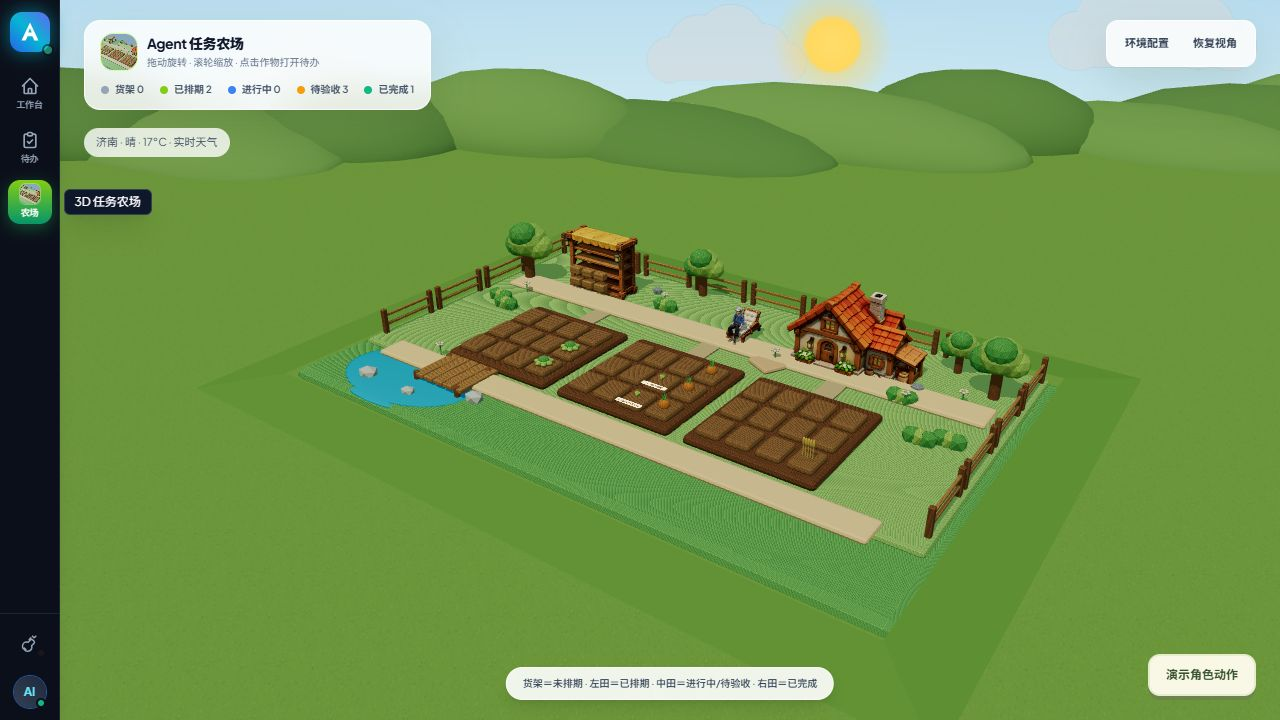
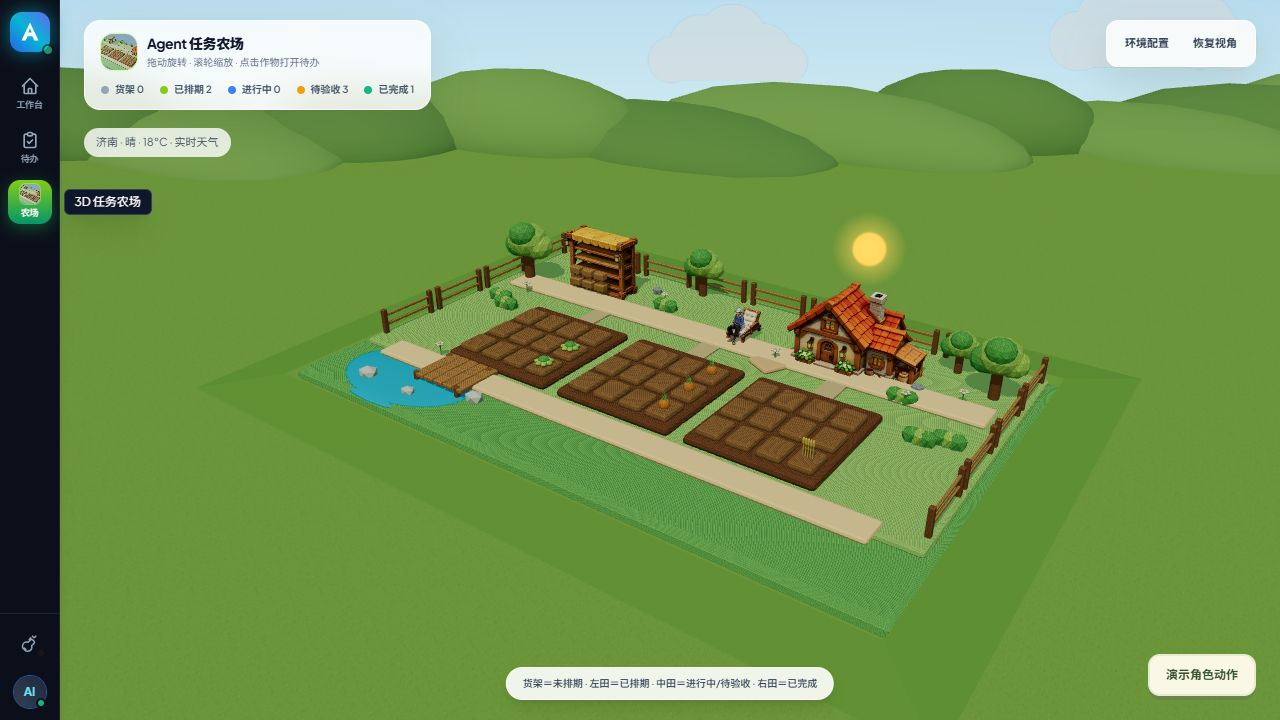
fix: anchor farm sun above the cottage

diff --git a/assets/web/farm-environment.js b/assets/web/farm-environment.js
@@ -56,7 +56,8 @@ export function createFarmEnvironment({scene,camera,sun,hemi,renderer,onWeather}
     hill.scale.set(10+i%4*2,3+i%3,8);root.add(hill);
   }
   const celestialTexture=glowTexture();
-  const solar=new THREE.Sprite(new THREE.SpriteMaterial({map:celestialTexture,transparent:true,depthWrite:false,fog:false,toneMapped:false}));solar.scale.set(11,11,1);root.add(solar);
+  const solar=new THREE.Sprite(new THREE.SpriteMaterial({map:celestialTexture,transparent:true,depthWrite:false,fog:false,toneMapped:false}));solar.scale.set(2.8,2.8,1);root.add(solar);
+  const sunAnchor=new THREE.Vector3(5.6,7.2,-4.8);
   const moon=new THREE.Sprite(new THREE.SpriteMaterial({map:celestialTexture,color:0xc6deff,transparent:true,depthWrite:false,fog:false,toneMapped:false}));moon.scale.set(7,7,1);root.add(moon);
   const porch=new THREE.PointLight(0xffc47a,0,10,2);porch.position.set(5.6,2,-2.7);root.add(porch);
   const stallLamp=new THREE.PointLight(0xffcd90,0,8,2);stallLamp.position.set(-7.5,2,-3.4);root.add(stallLamp);
@@ -103,7 +104,7 @@ export function createFarmEnvironment({scene,camera,sun,hemi,renderer,onWeather}
       precipitation.material.color.set(visual.snow ? 0xffffff : 0xc8def1);
       clouds.forEach((cloud,i)=>{cloud.material.color.set(day>.3 ? visual.rain ? 0x89979f : 0xffffff : 0x627085);cloud.material.opacity=.5+overcast*.4;cloud.visible=i<3+Math.round(overcast*6);});
     }
-    positionInSky(solar,-.6+visual.progress*1.6,.4+Math.sin(visual.progress*Math.PI)*.48,90);
+    solar.position.copy(sunAnchor);
     positionInSky(moon,.65,.85,90);
     stars.position.copy(camera.position);stars.quaternion.copy(camera.quaternion);
     clouds.forEach((cloud,i)=>{const speed=reduced.matches ? 0 : elapsed*(.0008+(snapshot.current?.wind_speed_10m || 5)*.000035);positionInSky(cloud,((i*.7+speed+.3)%2.4)-.9,.8+(i%3)*.06,115+i%3*3);});
@@ -115,5 +116,5 @@ export function createFarmEnvironment({scene,camera,sun,hemi,renderer,onWeather}
     root.traverse(object=>{if(object.geometry)geometries.add(object.geometry);for(const material of (Array.isArray(object.material)?object.material:[object.material]).filter(Boolean)){materials.add(material);if(material.map)textures.add(material.map);}});
     geometries.forEach(item=>item.dispose());materials.forEach(item=>item.dispose());textures.forEach(item=>item.dispose());
   }
-  return {tick,refresh,setWeather,dispose,groundSurfaces:[ground,skirt]};
+  return {tick,refresh,setWeather,dispose,setSunAnchor:position=>sunAnchor.copy(position),groundSurfaces:[ground,skirt]};
 }

diff --git a/assets/web/farm3d.js b/assets/web/farm3d.js
@@ -511,9 +511,12 @@ export function createAgentFarm3D({ container, tooltip, onTaskOpen, onSessionOpe
       loader.loadAsync('/models/chair-clean.glb'),
       loader.loadAsync('/models/stall-clean.glb')
     ]);
-    prepareDecorativeAsset(houseGltf.scene, {
+    const house=prepareDecorativeAsset(houseGltf.scene, {
       name: 'FarmHouse', scale: 5.1, x: 5.6, z: -4.8, rotationY: -Math.PI / 2, groundY: 0.02
     });
+    const houseBounds=new THREE.Box3().setFromObject(house);
+    const houseTop=houseBounds.getCenter(new THREE.Vector3());houseTop.y=houseBounds.max.y+1.9;
+    environment.setSunAnchor(houseTop);
     prepareDecorativeAsset(chairGltf.scene, {
       name: 'RestChair', scale: 1.45, x: 0.7, z: -4.15, rotationY: -Math.PI / 2, groundY: 0.38
     });

diff --git a/assets/web/index.html b/assets/web/index.html
@@ -4056,7 +4056,7 @@ Please navigate to the Project Path specified above, analyze the current workspa
         farmLoading.value = true;
         farmError.value = '';
         try {
-          farmModulePromise ||= import('/farm3d.js?v=0.4.0');
+          farmModulePromise ||= import('/farm3d.js?v=0.4.1');
           const { createAgentFarm3D } = await farmModulePromise;
           if (!farmCanvasHost.value || activePrimaryModule.value !== 'farm') return;
           farmController = createAgentFarm3D({

diff --git a/design-qa.md b/design-qa.md
@@ -39,3 +39,4 @@ final result: passed
 - Replaced the suspended appearance shown in the latest user screenshot with an extended meadow, a sloped edge transition, distant hills, blue sky, clouds, and a visible sun. Kept the supplied farm models and task interactions intact.
 - Verified the environment dialog displays Jinan by default, saves to SQLite, and retains selected settings after reload/server restart. Visually checked rain, snow, sunset, and night previews (moon/stars plus warm porch/stall lights), then restored Jinan with automatic time and live weather.
 - Verified a successful live Open-Meteo response for Jinan. Tests cover settings persistence/validation, 15-minute caching, stale/offline fallback without reusing another city's data, city-local daylight calculation, and manual weather preview semantics. The environment obeys reduced-motion preferences for cloud/precipitation movement and disposes its timer/resources on exit.
+- Anchored the sun above the actual cottage roof bounds and reduced its size. Verified the live sunny view and an empty browser error log; weather and daylight visibility remain unchanged.
